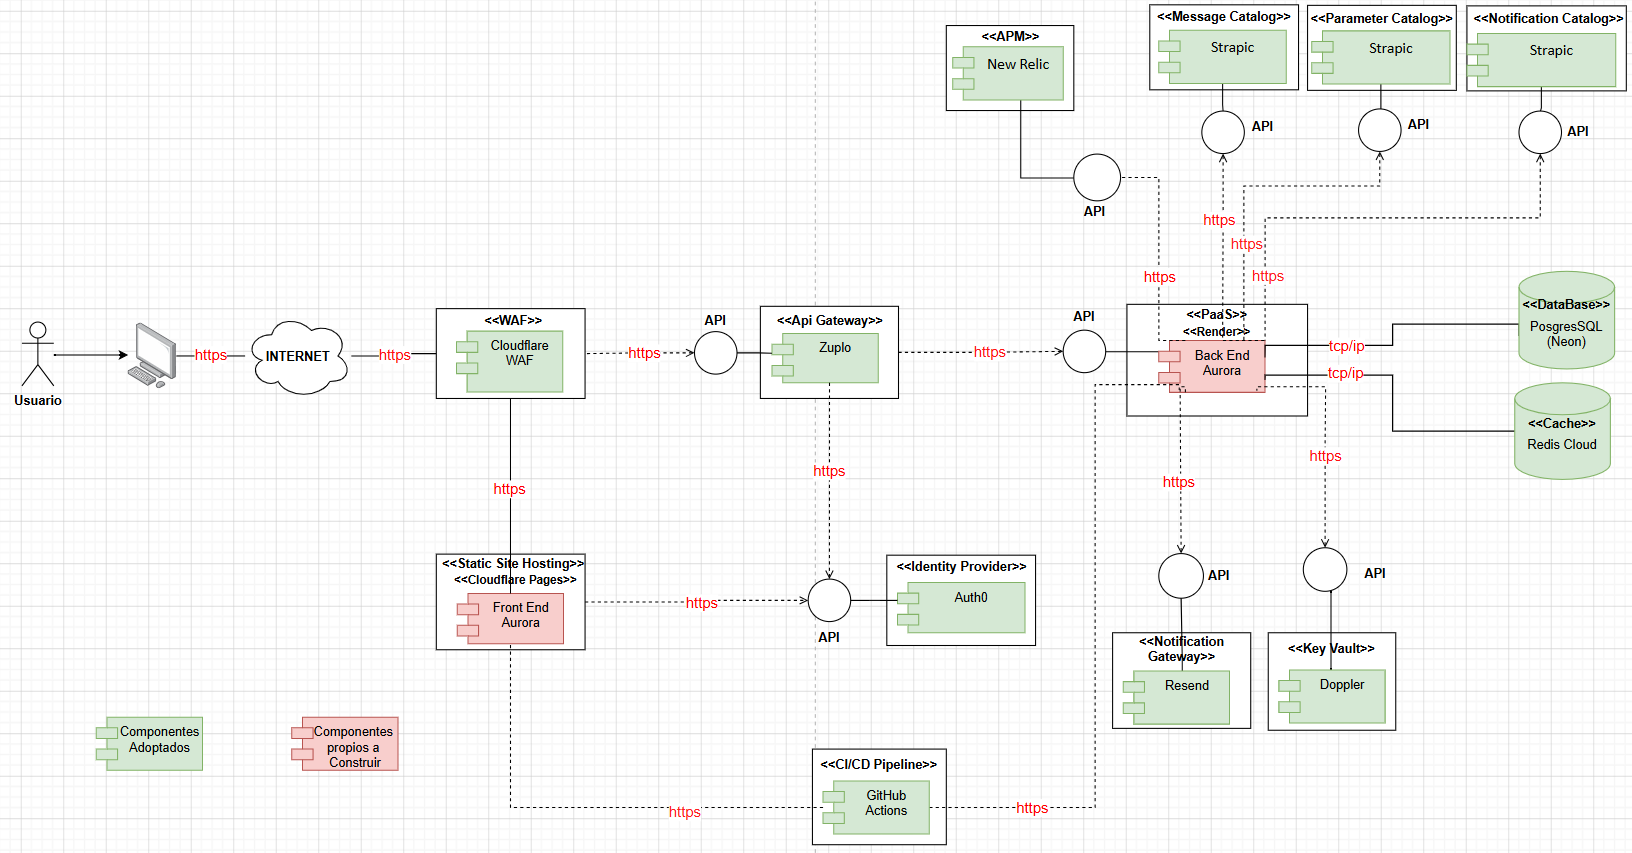
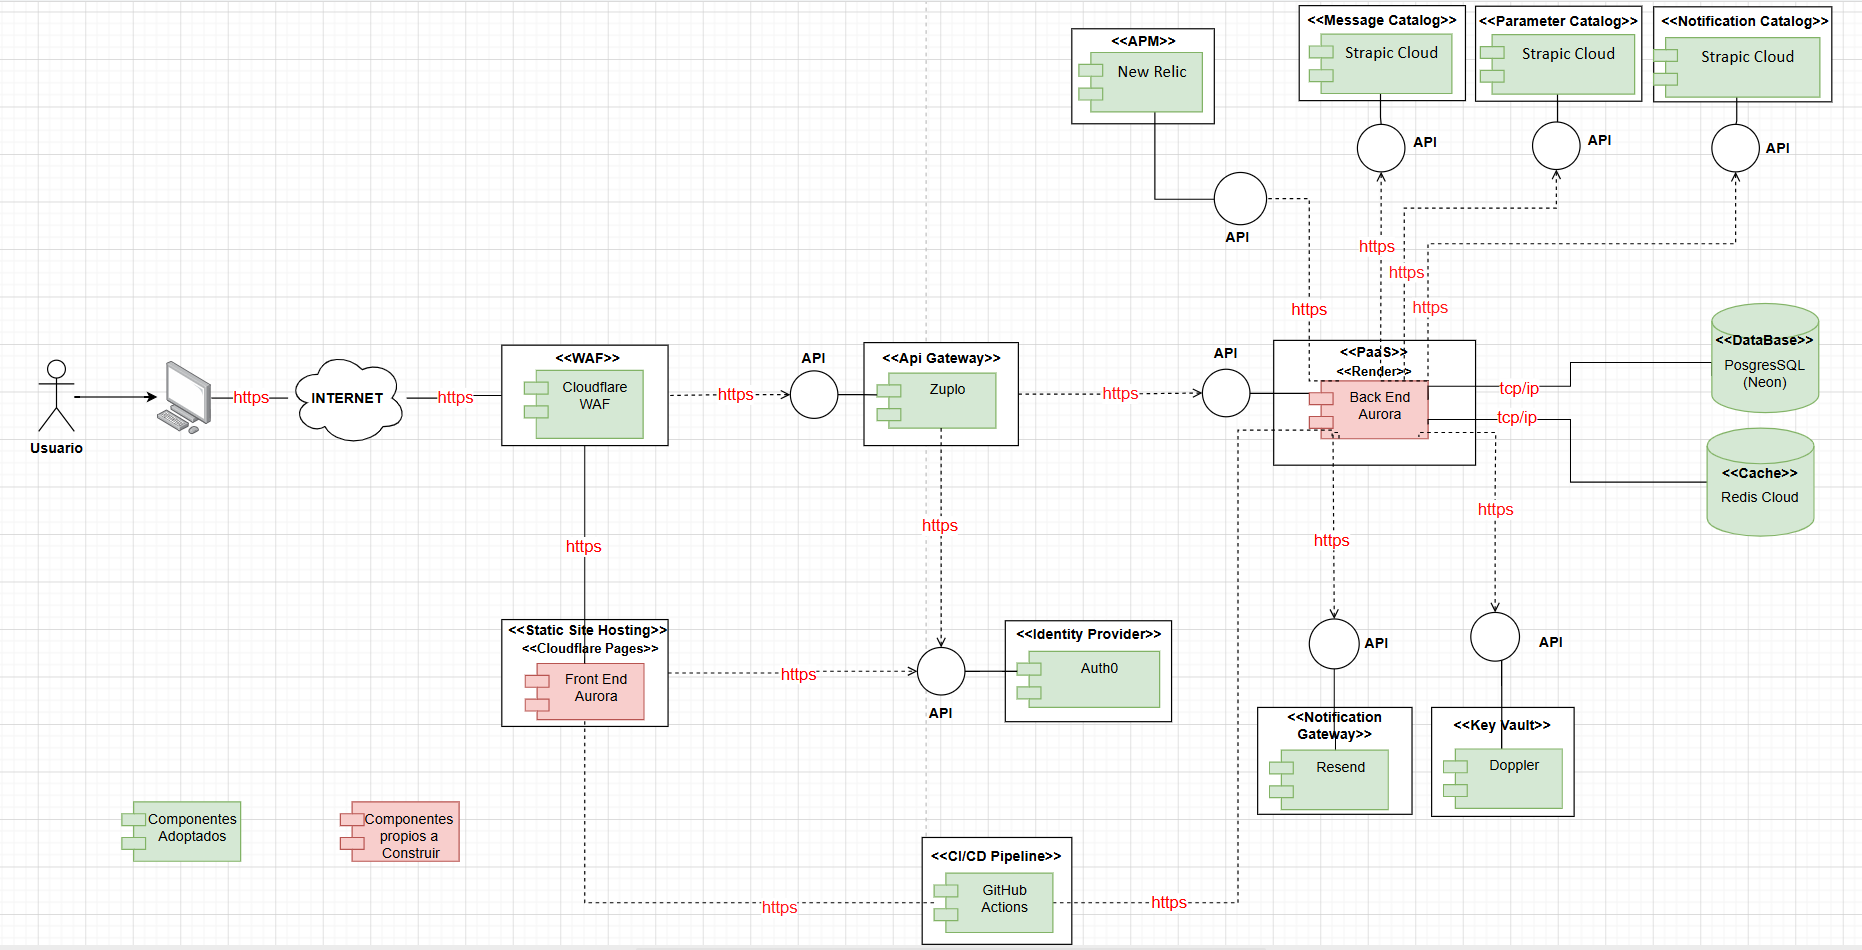
Ajustes

diff --git a/Documentacion-Aurora.md b/Documentacion-Aurora.md
@@ -77,9 +77,9 @@ Para esto, se tienen sus componentes princapales y posteriormente las bloques de
 | **Notification Gateway** | Resend Inc | Resend | Última versión estable | Capa gratuita (Freemium) | Se seleccionó Resend como el proveedor del Notification Gateway para el proyecto Aurora, destacándose frente a alternativas como Brevo, SendGrid o Mailgun. A diferencia de Brevo y SendGrid, cuya integración con Spring Boot se realiza mediante configuración SMTP tradicional con JavaMailSender, Resend ofrece una API REST moderna y limpia que simplifica significativamente el envío de correos desde el Backend, eliminando la necesidad de configurar protocolos SMTP, puertos y parámetros TLS de forma manual. Frente a SendGrid y Mailgun, que han acumulado deuda técnica en sus APIs y documentación a lo largo de los años, Resend fue construido desde cero con una experiencia de desarrollo (DX) de primer nivel, con una documentación clara, SDKs modernos y ejemplos específicos para Spring Boot que reducen drásticamente el tiempo de integración. Su plan gratuito de 100 emails diarios y 3.000 mensuales es más que suficiente para el volumen de notificaciones de Aurora en durante su fase de prueba en desarrollo y en producción, siendo la opción más viable y completa para implementar a nuestro sistema. |
 | **Key Vault** | Doppler Inc | Doppler | Última versión estable | Capa gratuita (Freemium) | Se seleccionó Doppler como la solución de gestión centralizada de secretos (Key Vault) para el proyecto Aurora, destacándose frente a alternativas como Azure Key Vault, HashiCorp Vault self-hosted o la gestión manual mediante archivos de entorno (.env). A diferencia de Azure Key Vault, que aunque es robusto, requiere registrar la aplicación en Azure Active Directory, configurar manualmente quién puede acceder a qué recursos dentro del ecosistema de Microsoft e integrar librerías propietarias en el código antes de poder leer un solo secreto, Doppler ofrece un proceso de configuración en minutos donde los secretos se inyectan automáticamente como variables de entorno al contenedor sin necesidad de modificar el código de la aplicación. Frente a HashiCorp Vault self-hosted, que requiere un servidor dedicado y experiencia operacional avanzada que el equipo no posee, Doppler es un servicio completamente gestionado con un plan gratuito permanente que cubre la totalidad de los secretos necesarios para Aurora. Frente a la gestión manual con archivos .env, Doppler garantiza que nunca ninguna credencial sensible exista en el repositorio de GitHub ni en el sistema de archivos del servidor, cumpliendo el Factor III del Manifiesto de 12 Factores de Aplicación. |
 | **CI/CD Pipeline** | Microsoft Corporation | GitHub Actions | Última versión estable | Capa gratuita (Freemium) | Se seleccionó GitHub Actions como la herramienta de Integración y Entrega Continua (CI/CD) para el proyecto Aurora, destacándose frente a alternativas del mercado como Jenkins, GitLab CI o CircleCI. A diferencia de Jenkins la cual exige aprovisionar, configurar y mantener un servidor dedicado para orquestar los despliegues, lo cual incrementando drásticamente los costos operativos, GitHub Actions ofrece una solución Serverless completamente administrada y, frente a herramientas de terceros como CircleCI, su mayor ventaja competitiva es la integración profunda y nativa con el repositorio donde ya reside el código fuente del proyecto (GitHub), permitiendo una automatización fluida basada en eventos (como commits o pull requests) sin configuraciones externas complejas. Para la arquitectura de Aurora, GitHub Actions actúa como el orquestador perfecto: permite automatizar la ejecución de pruebas del backend en Spring Boot y construir las imágenes en contenedores Docker. A nivel de seguridad operacional, destaca su capacidad para integrarse de manera fluida con un Key Vault; en lugar de almacenar credenciales de forma estática, el pipeline recupera e inyecta dinámicamente las variables de entorno sensibles (como los accesos a Auth0, Redis y la base de datos principal) garantizando un despliegue blindado. A nivel económico, su capa gratuita (Free Tier) proporciona minutos de ejecución y almacenamiento de artefactos más que suficientes para un proyecto en crecimiento, eliminando costos iniciales de licenciamiento. Esta elección garantiza entregas rápidas y confiables, consolidando un flujo de trabajo ágil y seguro. |
-| **Message Catalog** | Strapi Solutions SAS | Strapi | Última versión estable | Capa gratuita (Freemium) | Se seleccionó Strapi (Strapi Cloud) como Catálogo de Mensajes para Aurora, descartando alternativas nativas como Spring MessageSource y soluciones SaaS como Contentful o Sanity. El criterio central fue permitir la edición dinámica de los textos del sistema sin requerir un redespliegue del Backend, separando el contenido del ciclo de vida del software y dejando puramente el código para nuestra lógica de negocio. Usar Spring MessageSource (archivos .properties) obliga a ejecutar el pipeline de CI/CD en Render ante cualquier corrección ortográfica, lo cual es ineficiente. Por otro lado, Spring Cloud Config Server exige operar un microservicio adicional, añadiendo una complejidad operativa mayor. Frente a plataformas comerciales como Contentful (cuyo plan base parte de $300/mes) o Sanity (que añade la curva de aprendizaje de GROQ), la capa gratuita permanente de Strapi resulta técnica y económicamente superior, además de ser amigable en su uso para desarrolladores sin mucha experiencia. Su integración con Spring Boot se realiza mediante peticiones REST sobre HTTPS. Para optimizar el rendimiento y evitar cobros extra, los mensajes se almacenan en la caché de Redis Cloud al arrancar el sistema, evitando así comprometer los tiempos de respuesta y respetando los límites del plan gratuito. |
-| **Parameter Catalog** | Strapi Solutions SAS | Strapi | Última versión estable | Capa gratuita (Freemium) | Se seleccionó Strapi Cloud como Catálogo de Parámetros para Aurora, descartando el uso de Spring Data JPA + PostgreSQL y AWS Parameter Store. El objetivo fue disponer de una interfaz visual que permita gestionar valores clave del negocio sin intervención técnica ademas de usar una plataforma amigable hacia los pequeños desarrolladores. Usar Spring Data JPA obligaba a crear endpoints administrativos adicionales en el Backend, mezclando configuraciones con datos transaccionales de la logica de negocio. AWS Parameter Store fue descartado por generar dependencia de infraestructura (vendor lock-in). Frente a otros CMS más complejos, la interfaz de Strapi permite modelar esquemas en minutos de forma intuitiva y su capa gratuita cubre perfectamente las necesidades del proyecto. Su integración con Spring Boot se realiza mediante peticiones REST vía HTTPS. Al igual que con los mensajes, los parámetros se consultan al arrancar y se almacenan en Redis Cloud, garantizando disponibilidad inmediata para la lógica de negocio sin latencia adicional y maximizando el rendimiento del nivel gratuito de la plataforma. |
-| **Notification Catalog** | Strapi Solutions SAS | Strapi | Última versión estable | Capa gratuita (Freemium) | Se seleccionó Strapi Cloud como Catálogo de Notificaciones para Aurora, descartando la combinación de Thymeleaf + Spring Application Events y plataformas como Storyblok. El criterio principal fue externalizar las plantillas visuales de los correos (HTML) para permitir su modificación sin tocar el código fuente. Usar Thymeleaf convierte un simple cambio de diseño o texto en un correo en un evento técnico que requiere redesplegar toda la aplicación en Render. Frente a Storyblok o Contentful (diseñados para marketing y con altos costos), el modelo estructurado de Strapi y su capa gratuita permanente son ideales para almacenar plantillas transaccionales con variables dinámicas. El Backend consulta la plantilla correspondiente vía HTTPS mediante REST, inyecta los datos dinámicos deseados para el correo y finalmente delega el envío a la API de Resend. Esta arquitectura mantiene el sistema limpio, altamente modular y separa por completo la presentación visual de la lógica de envío. |
+| **Message Catalog** | Strapi Solutions SAS | Strapi Cloud| Última versión estable | Capa gratuita (Freemium) | Se seleccionó Strapi Cloud como Catálogo de Mensajes para Aurora, descartando alternativas nativas como Spring MessageSource y soluciones SaaS como Contentful o Sanity. El criterio central fue permitir la edición dinámica de los textos del sistema sin requerir un redespliegue del Backend, separando el contenido del ciclo de vida del software y dejando puramente el código para nuestra lógica de negocio. Usar Spring MessageSource (archivos .properties) obliga a ejecutar el pipeline de CI/CD en Render ante cualquier corrección ortográfica, lo cual es ineficiente. Por otro lado, Spring Cloud Config Server exige operar un microservicio adicional, añadiendo una complejidad operativa mayor. Frente a plataformas comerciales como Contentful (cuyo plan base parte de $300/mes) o Sanity (que añade la curva de aprendizaje de GROQ), la capa gratuita permanente de Strapi resulta técnica y económicamente superior, además de ser amigable en su uso para desarrolladores sin mucha experiencia. Su integración con Spring Boot se realiza mediante peticiones REST sobre HTTPS. Para optimizar el rendimiento y evitar cobros extra, los mensajes se almacenan en la caché de Redis Cloud al arrancar el sistema, evitando así comprometer los tiempos de respuesta y respetando los límites del plan gratuito. |
+| **Parameter Catalog** | Strapi Solutions SAS | Strapi Cloud | Última versión estable | Capa gratuita (Freemium) | Se seleccionó Strapi Cloud como Catálogo de Parámetros para Aurora, descartando el uso de Spring Data JPA + PostgreSQL y AWS Parameter Store. El objetivo fue disponer de una interfaz visual que permita gestionar valores clave del negocio sin intervención técnica ademas de usar una plataforma amigable hacia los pequeños desarrolladores. Usar Spring Data JPA obligaba a crear endpoints administrativos adicionales en el Backend, mezclando configuraciones con datos transaccionales de la logica de negocio. AWS Parameter Store fue descartado por generar dependencia de infraestructura (vendor lock-in). Frente a otros CMS más complejos, la interfaz de Strapi permite modelar esquemas en minutos de forma intuitiva y su capa gratuita cubre perfectamente las necesidades del proyecto. Su integración con Spring Boot se realiza mediante peticiones REST vía HTTPS. Al igual que con los mensajes, los parámetros se consultan al arrancar y se almacenan en Redis Cloud, garantizando disponibilidad inmediata para la lógica de negocio sin latencia adicional y maximizando el rendimiento del nivel gratuito de la plataforma. |
+| **Notification Catalog** | Strapi Solutions SAS | Strapi Cloud | Última versión estable | Capa gratuita (Freemium) | Se seleccionó Strapi Cloud como Catálogo de Notificaciones para Aurora, descartando la combinación de Thymeleaf + Spring Application Events y plataformas como Storyblok. El criterio principal fue externalizar las plantillas visuales de los correos (HTML) para permitir su modificación sin tocar el código fuente. Usar Thymeleaf convierte un simple cambio de diseño o texto en un correo en un evento técnico que requiere redesplegar toda la aplicación en Render. Frente a Storyblok o Contentful (diseñados para marketing y con altos costos), el modelo estructurado de Strapi y su capa gratuita permanente son ideales para almacenar plantillas transaccionales con variables dinámicas. El Backend consulta la plantilla correspondiente vía HTTPS mediante REST, inyecta los datos dinámicos deseados para el correo y finalmente delega el envío a la API de Resend. Esta arquitectura mantiene el sistema limpio, altamente modular y separa por completo la presentación visual de la lógica de envío. |
 
 ---
 
